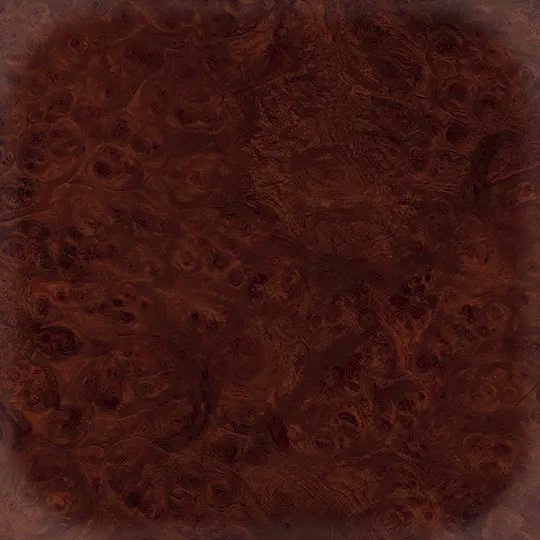
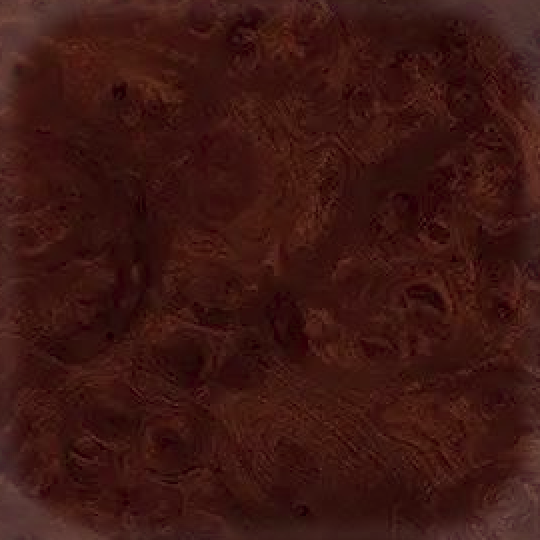
fix: start position empty

diff --git a/src/components/debugControls.vue b/src/components/debugControls.vue
@@ -30,44 +30,98 @@
     </button>
   </div>
   <div
-    class="pointer-events-auto col-span-4 col-start-5 row-span-2 row-start-7 flex min-h-0 items-end justify-end self-end"
+    class="pointer-events-auto col-span-4 col-start-5 row-span-2 row-start-7 flex min-h-0 items-end justify-end gap-2 self-end"
   >
-    <div class="relative flex items-center justify-center gap-2">
-      <div
-        class="absolute inset-0 h-full w-full scale-75 rounded-[40%] border-3 border-amber-900 bg-amber-950"
-      ></div>
-      <button
-        class="relative min-w-16 border-3 border-amber-900 bg-amber-700 p-1 px-2 font-black text-amber-100"
-        @click="movePlayer('left')"
-      >
-        Left
-      </button>
-      <div class="flex flex-col gap-2">
+    <div class="flex flex-col items-center gap-1">
+      <span class="text-xs font-black text-amber-900">Corsair</span>
+      <div class="relative flex items-center justify-center gap-2">
+        <div
+          class="absolute inset-0 h-full w-full scale-75 rounded-[40%] border-3 border-amber-900 bg-amber-950"
+        ></div>
         <button
           class="relative min-w-16 border-3 border-amber-900 bg-amber-700 p-1 px-2 font-black text-amber-100"
-          @click="movePlayer('up')"
+          @click="moveCorsair('left')"
         >
-          Up
+          Left
         </button>
+        <div class="flex flex-col gap-2">
+          <button
+            class="relative min-w-16 border-3 border-amber-900 bg-amber-700 p-1 px-2 font-black text-amber-100"
+            @click="moveCorsair('up')"
+          >
+            Up
+          </button>
+          <button
+            class="relative min-w-16 border-3 border-amber-900 bg-amber-700 p-1 px-2 font-black text-amber-100"
+            @click="moveCorsair('down')"
+          >
+            Down
+          </button>
+        </div>
         <button
           class="relative min-w-16 border-3 border-amber-900 bg-amber-700 p-1 px-2 font-black text-amber-100"
-          @click="movePlayer('down')"
+          @click="moveCorsair('right')"
         >
-          Down
+          Right
         </button>
       </div>
-      <button
-        class="relative min-w-16 border-3 border-amber-900 bg-amber-700 p-1 px-2 font-black text-amber-100"
-        @click="movePlayer('right')"
-      >
-        Right
-      </button>
+    </div>
+    <div class="flex flex-col items-center gap-1">
+      <span class="text-xs font-black text-amber-900">Player</span>
+      <div class="relative flex items-center justify-center gap-2">
+        <div
+          class="absolute inset-0 h-full w-full scale-75 rounded-[40%] border-3 border-amber-900 bg-amber-950"
+        ></div>
+        <button
+          class="relative min-w-16 border-3 border-amber-900 bg-amber-700 p-1 px-2 font-black text-amber-100"
+          @click="movePlayer('left')"
+        >
+          Left
+        </button>
+        <div class="flex flex-col gap-2">
+          <button
+            class="relative min-w-16 border-3 border-amber-900 bg-amber-700 p-1 px-2 font-black text-amber-100"
+            @click="movePlayer('up')"
+          >
+            Up
+          </button>
+          <button
+            class="relative min-w-16 border-3 border-amber-900 bg-amber-700 p-1 px-2 font-black text-amber-100"
+            @click="movePlayer('down')"
+          >
+            Down
+          </button>
+        </div>
+        <button
+          class="relative min-w-16 border-3 border-amber-900 bg-amber-700 p-1 px-2 font-black text-amber-100"
+          @click="movePlayer('right')"
+        >
+          Right
+        </button>
+      </div>
     </div>
   </div>
 </template>
 
 <script setup lang="ts">
 import { gameState } from '../utils/gameStore';
+
+const moveCorsair = (direction: string) => {
+  switch (direction) {
+    case 'left':
+      gameState.corsairPosition.y -= 1;
+      break;
+    case 'right':
+      gameState.corsairPosition.y += 1;
+      break;
+    case 'up':
+      gameState.corsairPosition.x += 1;
+      break;
+    case 'down':
+      gameState.corsairPosition.x -= 1;
+      break;
+  }
+};
 
 const movePlayer = (direction: string) => {
   switch (direction) {

diff --git a/src/three/corsair.ts b/src/three/corsair.ts
@@ -1,0 +1,79 @@
+import * as THREE from 'three/webgpu';
+import { gameState } from '../utils/gameStore';
+import { modelLoader } from './modelLoader';
+import { watch } from 'vue';
+
+export class Corsair {
+  private corsairGroup: THREE.Group;
+  private isDisplayedInMap: boolean;
+  private isDisplayed: boolean;
+
+  constructor(scene: THREE.Scene) {
+    this.corsairGroup = new THREE.Group();
+
+    scene.add(this.corsairGroup);
+
+    this.isDisplayedInMap = false;
+    this.isDisplayed = false;
+
+    const corsair = modelLoader.get('./models/boat.glb').scene.clone();
+    corsair.scale.multiplyScalar(0.5);
+    corsair.position.y = -0.1;
+    this.corsairGroup.add(corsair);
+    this.corsairGroup.rotation.y = Math.PI;
+
+    this.initWatchers();
+  }
+
+  public destroy(): void {
+    this.corsairGroup.removeFromParent();
+    this.corsairGroup.clear();
+  }
+
+  public initWatchers(): void {
+    watch(
+      () => gameState.displayCorsair,
+      (isDisplayed) => {
+        this.displayCorsair(isDisplayed);
+      }
+    );
+    watch(
+      () => gameState.corsairPosition,
+      (newPosition) => {
+        this.setPosition(newPosition);
+      },
+      { deep: true }
+    );
+    this.displayCorsair(gameState.displayCorsair);
+    this.setPosition(gameState.userPosition);
+  }
+
+  private setPosition(newPosition: THREE.Vector2): void {
+    const maxX = 5;
+    const maxZ = 7;
+    this.corsairGroup.position.x = Math.max(0, Math.min(maxX, newPosition.x));
+    this.corsairGroup.position.z = Math.max(0, Math.min(maxZ, newPosition.y));
+  }
+
+  private displayCorsair(isDisplayed: boolean): void {
+    // display the corsair based on isDisplayed
+    this.isDisplayed = true;
+    this.updateDisplay(isDisplayed, this.isDisplayedInMap);
+  }
+
+  public displayCorsairInMap(isDisplayedInMap: boolean): void {
+    // display the corsair based on isDisplayed
+    this.isDisplayedInMap = true;
+    this.updateDisplay(this.isDisplayed, isDisplayedInMap);
+  }
+
+  private updateDisplay(isDisplayed: boolean, isDisplayedInMap: boolean): void {
+    // display if one of two conditions is met
+    this.corsairGroup.visible = isDisplayed || isDisplayedInMap;
+  }
+
+  public update(time: number): void {
+    this.corsairGroup.rotation.y += 0.001;
+    this.corsairGroup.rotation.z = Math.sin(time * 0.001 - 1) * 0.4;
+  }
+}

diff --git a/src/three/mapManager.ts b/src/three/mapManager.ts
@@ -12,6 +12,7 @@ import {
 import { watch } from 'vue';
 import { DecorativeClouds } from './decorativeClouds';
 import { gameEvents } from '../events/gameEvents';
+import type { SceneManager } from './sceneManager';
 
 const TILE_AMOUNT_X = 5;
 const TILE_AMOUNT_Y = 7;
@@ -32,9 +33,11 @@ export class MapManager {
   private stopWatchers: Array<() => void> = [];
   private clouds: DecorativeClouds;
   private revealRunId = 0;
+  private sceneManager: SceneManager;
 
-  constructor(scene: THREE.Scene) {
+  constructor(sceneManager: SceneManager, scene: THREE.Scene) {
     this.scene = scene;
+    this.sceneManager = sceneManager;
     this.mapGroup = new THREE.Group();
     this.tiles = [];
     this.scene.add(this.mapGroup);
@@ -116,6 +119,12 @@ export class MapManager {
     environment.position.add(new THREE.Vector3(0.5, 0, 0.5));
     this.mapGroup.add(environment);
 
+    const startPosition = new THREE.Vector2(
+      Math.round(Math.random() * 4),
+      Math.round(Math.random() * 6)
+    );
+    gameState.userPosition = startPosition;
+
     // generate board tiles
     const boardTiles =
       gameState.boardTiles.length > 0 ? gameState.boardTiles : this.createBoardTiles();
@@ -129,12 +138,6 @@ export class MapManager {
       this.tiles.push(tile);
       this.mapGroup.add(tile.tileGroup);
     });
-
-    const startPosition = new THREE.Vector2(
-      Math.round(Math.random() * 4),
-      Math.round(Math.random() * 6)
-    );
-    gameState.userPosition = startPosition;
   }
 
   private createBoardTiles(): BoardTileSnapshot[] {
@@ -215,6 +218,8 @@ export class MapManager {
         return;
       }
 
+      this.sceneManager.corsair.displayCorsairInMap(true);
+
       gameEvents.emit('parrot:map_revealed', {});
     });
   }
@@ -222,6 +227,8 @@ export class MapManager {
   public hideEntities() {
     this.revealRunId += 1;
     console.log(gameState.userPositionHistory);
+
+    this.sceneManager.corsair.displayCorsairInMap(false);
     this.tiles.forEach((tile) => {
       void tile.hide();
     });

diff --git a/src/three/sceneManager.ts b/src/three/sceneManager.ts
@@ -6,6 +6,7 @@ import { gsap } from 'gsap';
 import { Player } from './player';
 import { gameState } from '../utils/gameStore';
 import Stats from 'three/examples/jsm/libs/stats.module.js';
+import { Corsair } from './corsair';
 
 export class SceneManager {
   private scene: THREE.Scene;
@@ -20,6 +21,7 @@ export class SceneManager {
   public player: Player;
   private stats: Stats;
   private handleCanvasClick: (event: MouseEvent) => void;
+  public corsair: Corsair;
 
   constructor(canvas: HTMLCanvasElement, width: number, height: number) {
     this.canvas = canvas;
@@ -41,8 +43,9 @@ export class SceneManager {
     this.seaSky = createSeaSkyBackground(this.camera.getNative());
     this.scene.add(this.seaSky.mesh);
 
-    this.mapManager = new MapManager(this.scene);
     this.player = new Player(this.scene);
+    this.corsair = new Corsair(this.scene);
+    this.mapManager = new MapManager(this, this.scene);
 
     // Setup stats panel
     this.stats = new Stats();
@@ -89,6 +92,7 @@ export class SceneManager {
     this.renderer.render(this.scene, this.camera.getNative());
     this.seaSky.update(time * 1000);
     this.player.update(time * 1000);
+    this.corsair.update(time * 1000);
   };
 
   dispose(): void {
@@ -97,6 +101,8 @@ export class SceneManager {
     gsap.ticker.remove(this.animate);
     this.renderer.dispose();
     this.mapManager.destroy();
+    this.player.destroy();
+    this.corsair.destroy();
     if (this.stats.dom.parentElement) {
       this.stats.dom.parentElement.removeChild(this.stats.dom);
     }

diff --git a/src/three/camera.ts b/src/three/camera.ts
@@ -20,6 +20,7 @@ export class Camera {
 
   constructor(scene: THREE.Scene, width: number, height: number) {
     this.cameraGroup = new THREE.Group();
+    this.cameraGroup.position.add(new THREE.Vector3(50, 0, 2.5));
     this.cameraPositionGroup = new THREE.Group();
     this.camera = new THREE.PerspectiveCamera(30, width / height, 0.1, 1000);
 
@@ -34,7 +35,7 @@ export class Camera {
     this.cameraGroup.add(this.cameraPositionGroup);
     scene.add(this.cameraGroup);
 
-    this.cameraPositionGroup.position.copy(cameraPositions.crew);
+    this.cameraPositionGroup.position.copy(cameraPositions.default);
     this.camera.lookAt(this.cameraGroup.position.clone().add(new THREE.Vector3(0, -1, 0)));
 
     this.initWatchers();
@@ -60,6 +61,7 @@ export class Camera {
         this.setFocused(newFocused);
       }
     );
+
     this.setPhase(gameState.currentPhase);
     this.setPosition(gameState.userPosition);
     this.setFocused(gameState.focusedView);

diff --git a/src/three/player.ts b/src/three/player.ts
@@ -176,6 +176,12 @@ export class Player {
   public setPosition(position: THREE.Vector2): void {
     this.position.copy(position);
 
+    // limit position
+    const maxX = 5;
+    const maxZ = 7;
+    this.position.x = Math.max(0, Math.min(maxX, this.position.x));
+    this.position.y = Math.max(0, Math.min(maxZ, this.position.y));
+
     gsap.to(this.playerGroup.position, {
       x: this.position.x,
       y: this.playerGroup.position.y,
@@ -209,6 +215,15 @@ export class Player {
 
   getPosition() {
     return this.position;
+  }
+
+  public destroy(): void {
+    this.arrowGroup.removeFromParent();
+    this.boatGroup.removeFromParent();
+    this.birdGroup.removeFromParent();
+    this.playerGroup.removeFromParent();
+    this.playerGroup.clear();
+    this.arrowMeshes.clear();
   }
 
   public handleArrowClick(mousePosition: THREE.Vector2, camera: THREE.Camera): void {

diff --git a/src/utils/gameStore.ts b/src/utils/gameStore.ts
@@ -19,6 +19,8 @@ interface StoreInterface {
   crewHP: number;
   diceResult: number | null;
   userPosition: THREE.Vector2;
+  corsairPosition: THREE.Vector2;
+  displayCorsair: boolean;
   userPositionHistory: Array<THREE.Vector2>;
   entitiesVisible: boolean;
   focusedView: boolean;
@@ -59,6 +61,8 @@ export const gameState = reactive({
   diceResult: null,
   focusedView: false,
   userPosition: new THREE.Vector2(0, 0),
+  displayCorsair: false,
+  corsairPosition: new THREE.Vector2(0, 0),
   userPositionHistory: [new THREE.Vector2(0, 0)],
   entitiesVisible: false,
   displayArrows: false,
